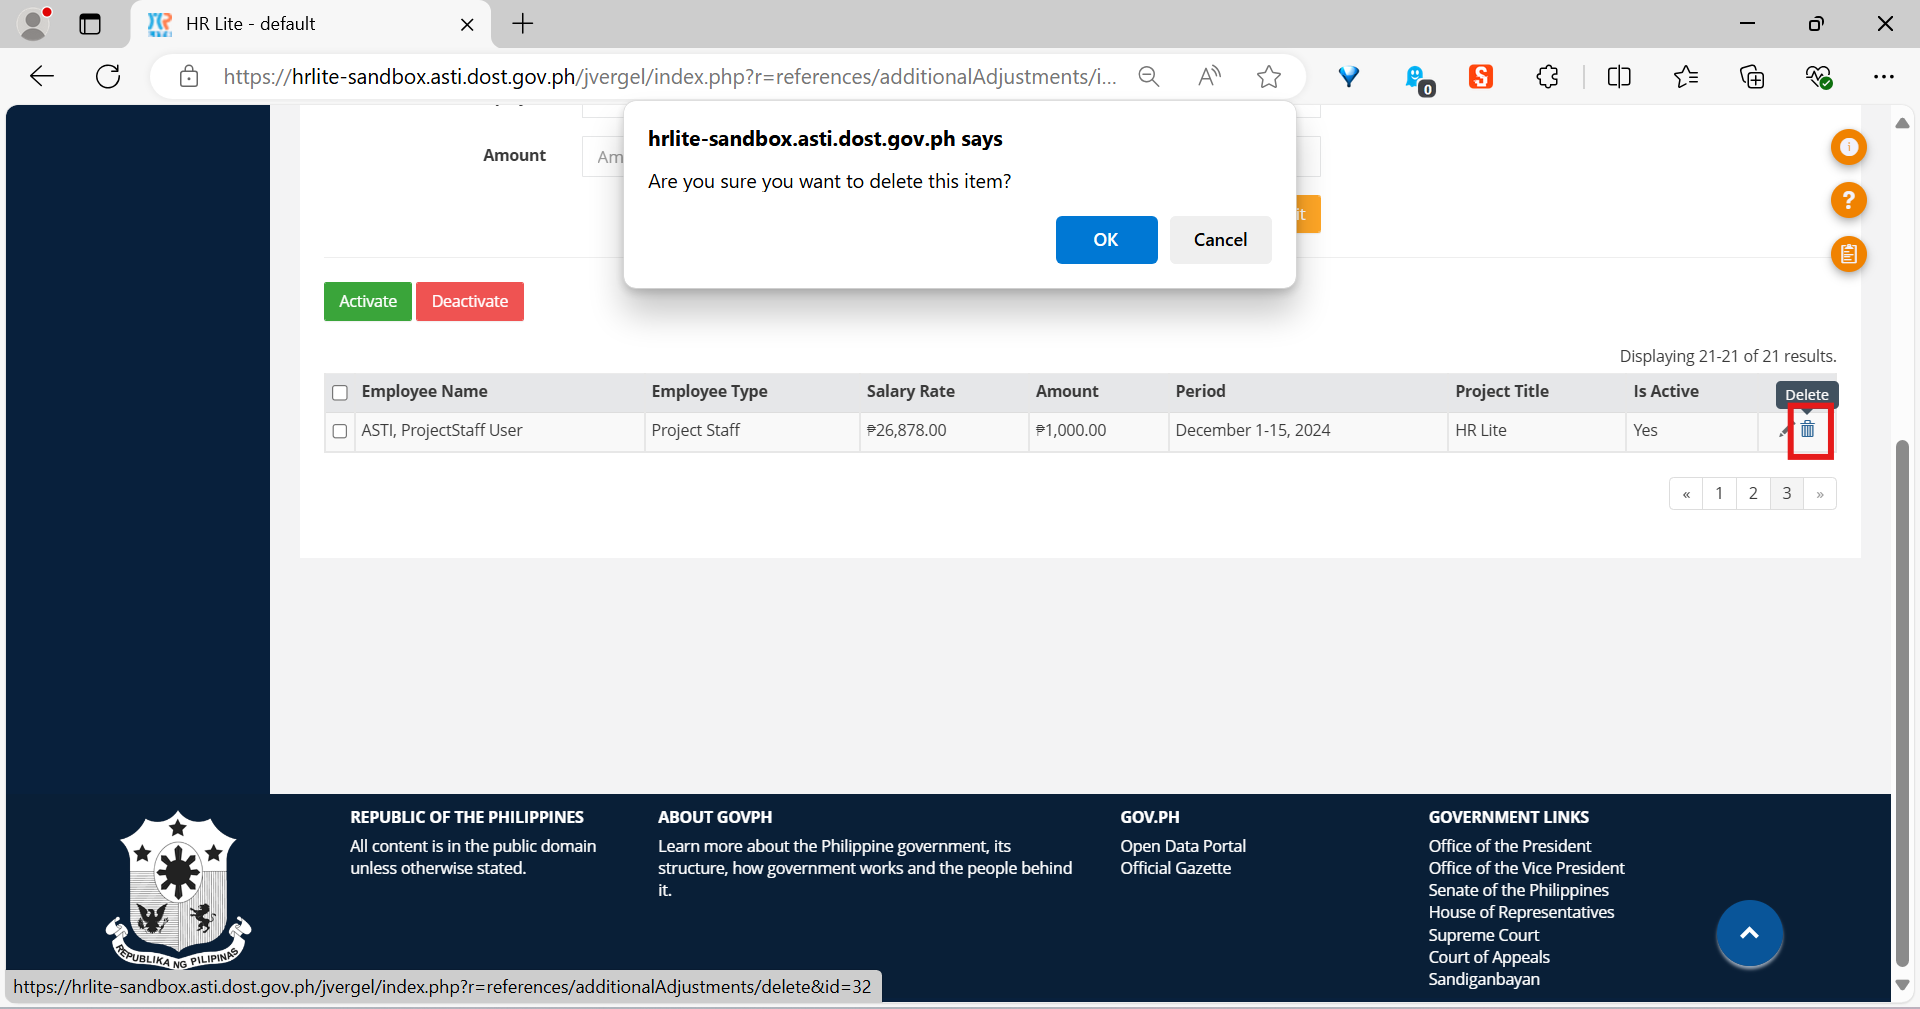
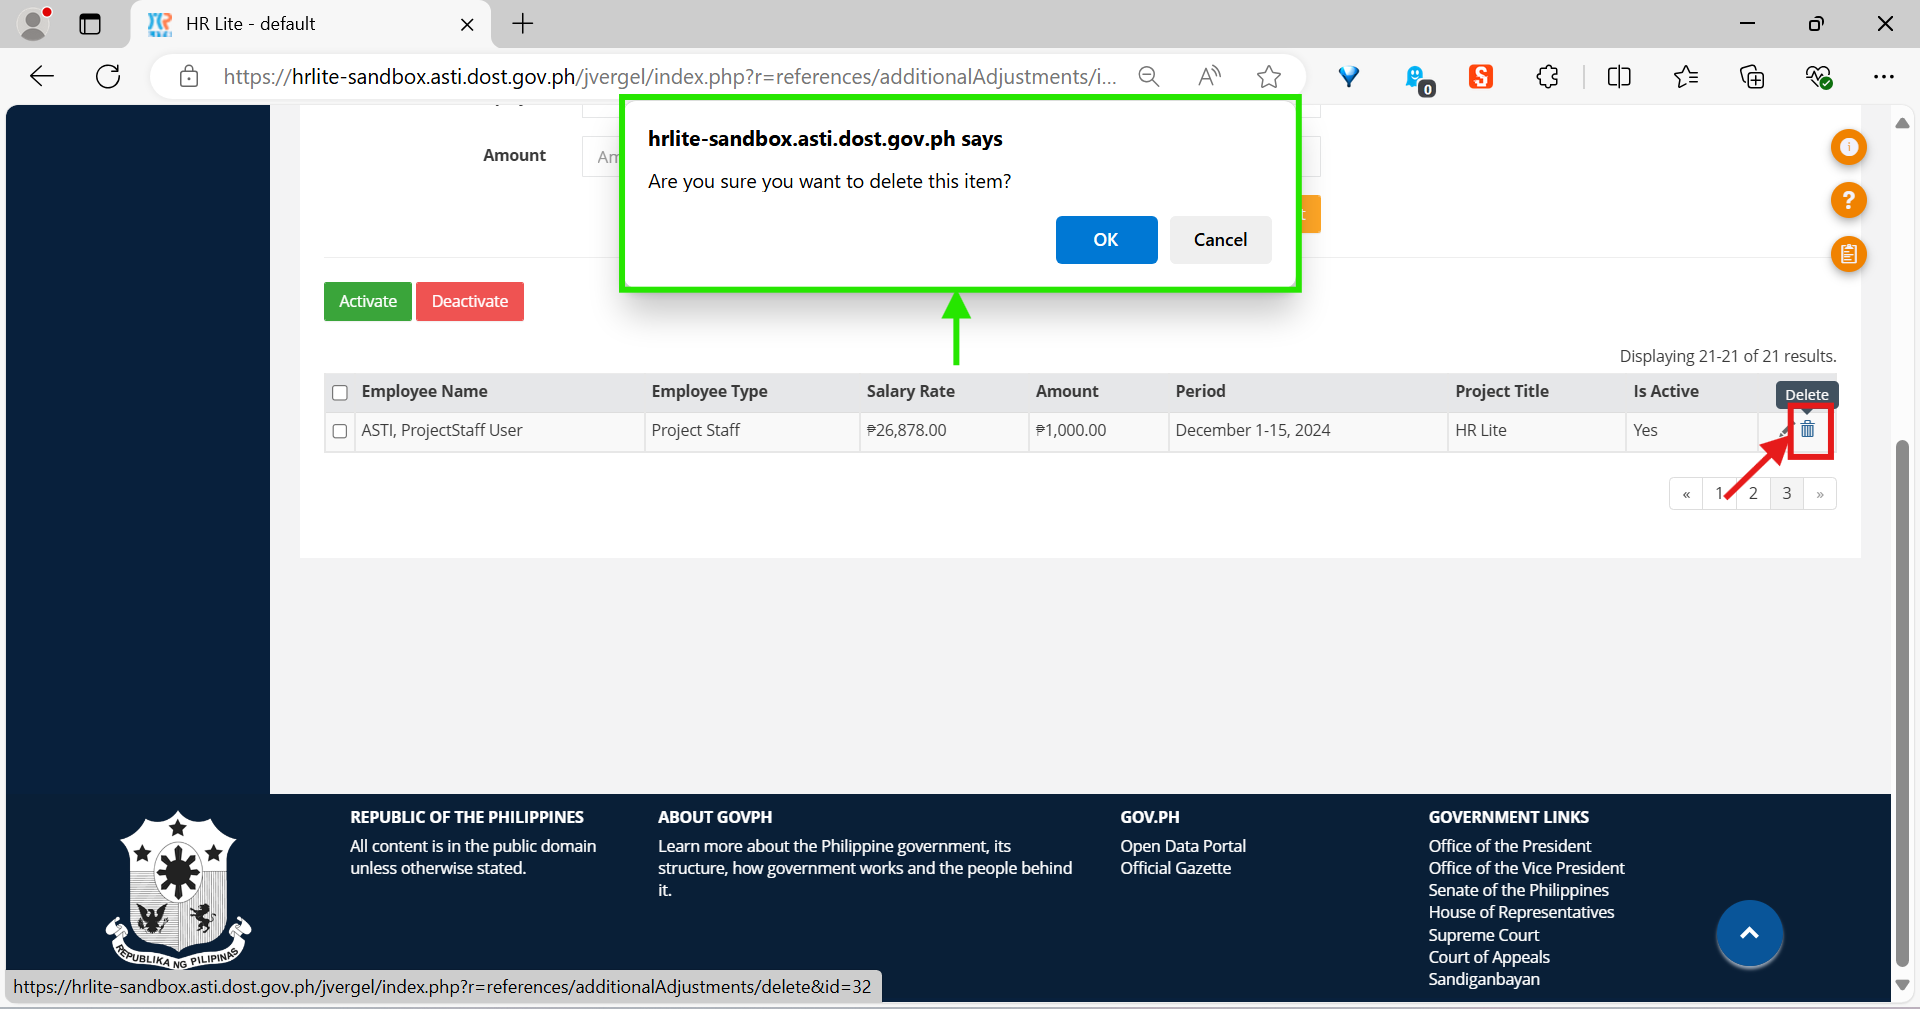
Added more content to the Additional/Adjustments chapter

Changed region(s): [[0.3125, 0.0922, 0.6875, 0.338], [0.9062, 0.4301, 0.9375, 0.4916]]

diff --git a/additional-adjustments/index.rst b/additional-adjustments/index.rst
@@ -16,17 +16,74 @@ The salary adjustment form
    Top portion of the *Additional/Adjustments* page, showing the salary
    adjustment form.
 
+The *salary adjustment form* is where you will be adding new salary adjustments
+or editing currently existing ones.
+
+It has six fields:
+
+* The *Period* field contains the time period in which the salary adjustment
+  will be given to the employee. It has three smaller fields: *Month*, *Date*,
+  and *Year*.
+* The *Employee Type* field is used to filter the list of employees in the
+  *Employee* field according to employee type (e.g. “Project Staff” or
+  “Permanent”).
+* The *Division* field is used to filter the list of employees in the
+  *Employee* field according to division.
+* The *Project Title* field is used to filter the list of employees in the
+  *Employee* field according to project title.
+* The *Employee* field contains the employee that will receive the salary
+  adjustment.
+* The *Amount* field contains the specific amount that will be added to the
+  employee’s salary.
+
+There are also two buttons on the bottom right: the *Cancel* button which
+resets the form, and the *Submit* button which submits all the data in the
+form.
+
 The salary adjustments table
 ----------------------------
-
-The *salary adjustments table* is where all the salary adjustments that have
-ever been added are listed. Its rows are sorted by period descending (i.e., the
-rows for the latest period are listed first).
 
 .. figure:: illustrations/additional-adjustments--page-bottom.png
 
    Bottom portion of the *Additional/Adjustments* page, showing the salary
    adjustments table.
+
+The *salary adjustments table* is where all the salary adjustments that have
+ever been added are listed.
+
+There are seven columns in the table:
+
+* The *Employee Name* column contains the name of the employee that received
+  the salary adjustment.
+* The *Employee Type* column contains the employee type of the employee (e.g.
+  “Project Staff” or “Permanent”) as of the time specified in the *Period*
+  column.
+* The *Salary Rate* column contains the salary rate of the employee as of the
+  time specified in the *Period* column.
+* The *Amount* column contains the amount that was added to the employee’s
+  salary.
+* The *Period* column contains the period in which the salary adjustment was
+  given to the employee.
+* The *Project Title* column contains the code of the project title that the
+  employee belonged to as of the time specified in the *Period* column.
+* The *Is Active* column shows whether the salary adjustment is available for
+  use in other parts of HR Lite and the Payroll Module.
+
+The rows in the table are sorted by period descending — i.e. the rows for the
+latest period are listed first. They each will have a checkbox to their left
+for selecting, and two buttons to the right for editing and deleting them.
+
+There is also a checkbox on the top left corner of the table for selecting all
+rows that are **currently** displayed in the table.
+
+There are also two buttons above the table:
+
+* The *Activate* button, colored green, sets the status of any selected
+  employees in the table to active. Active salary adjustments have a value of
+  “Yes” in the *Is Active* column of the table.
+* The *Deactivate* button, colored red, sets the status of any selected
+  employees in the table to inactive. Inactive salary adjustments have a value
+  of “No” in the *Is Active* column of the table.
 
 How to add a salary adjustment
 ------------------------------
@@ -50,6 +107,11 @@ How to add a salary adjustment
 
 A notification will appear in the bottom right of the application if the
 salary adjustment was successfully saved.
+
+.. figure:: illustrations/additional-adjustments--creation-success.png
+
+   A notification will appear after a salary adjustment is successfully
+   created.
 
 How to edit a salary adjustment
 -------------------------------
@@ -75,7 +137,10 @@ How to edit a salary adjustment
 .. figure:: illustrations/additional-adjustments--data-loaded-into-form.png
 
    After clicking the update button for your chosen salary adjustment, its data
-   will be loaded into the form.
+   will be loaded into the form. The header, marked in green, will also change.
+
+A notification should appear in the bottom right if the updating of the salary
+adjustment’s information was successful.
 
 How to delete a salary adjustment
 ---------------------------------
@@ -88,15 +153,11 @@ How to delete a salary adjustment
 2. A confirm dialog will appear near the top of the window. Click *OK* to
    proceed with the deletion, or *Cancel* if you wish to stop.
 
-You should see a notification at the bottom right of the page telling you that
-the deletion was successful.
-
 .. figure:: illustrations/additional-adjustments--delete-button-and-confirm-dialog.png
 
    The application will be asking you whether you *actually* want to
    proceed with the deletion. The location of the delete button is also
    marked in red.
 
-.. figure:: illustrations/additional-adjustments--deletion-success-notification.png
-
-   A notification will appear after a successful deletion.
+You should see a notification at the bottom right of the page telling you that
+the deletion was successful.
